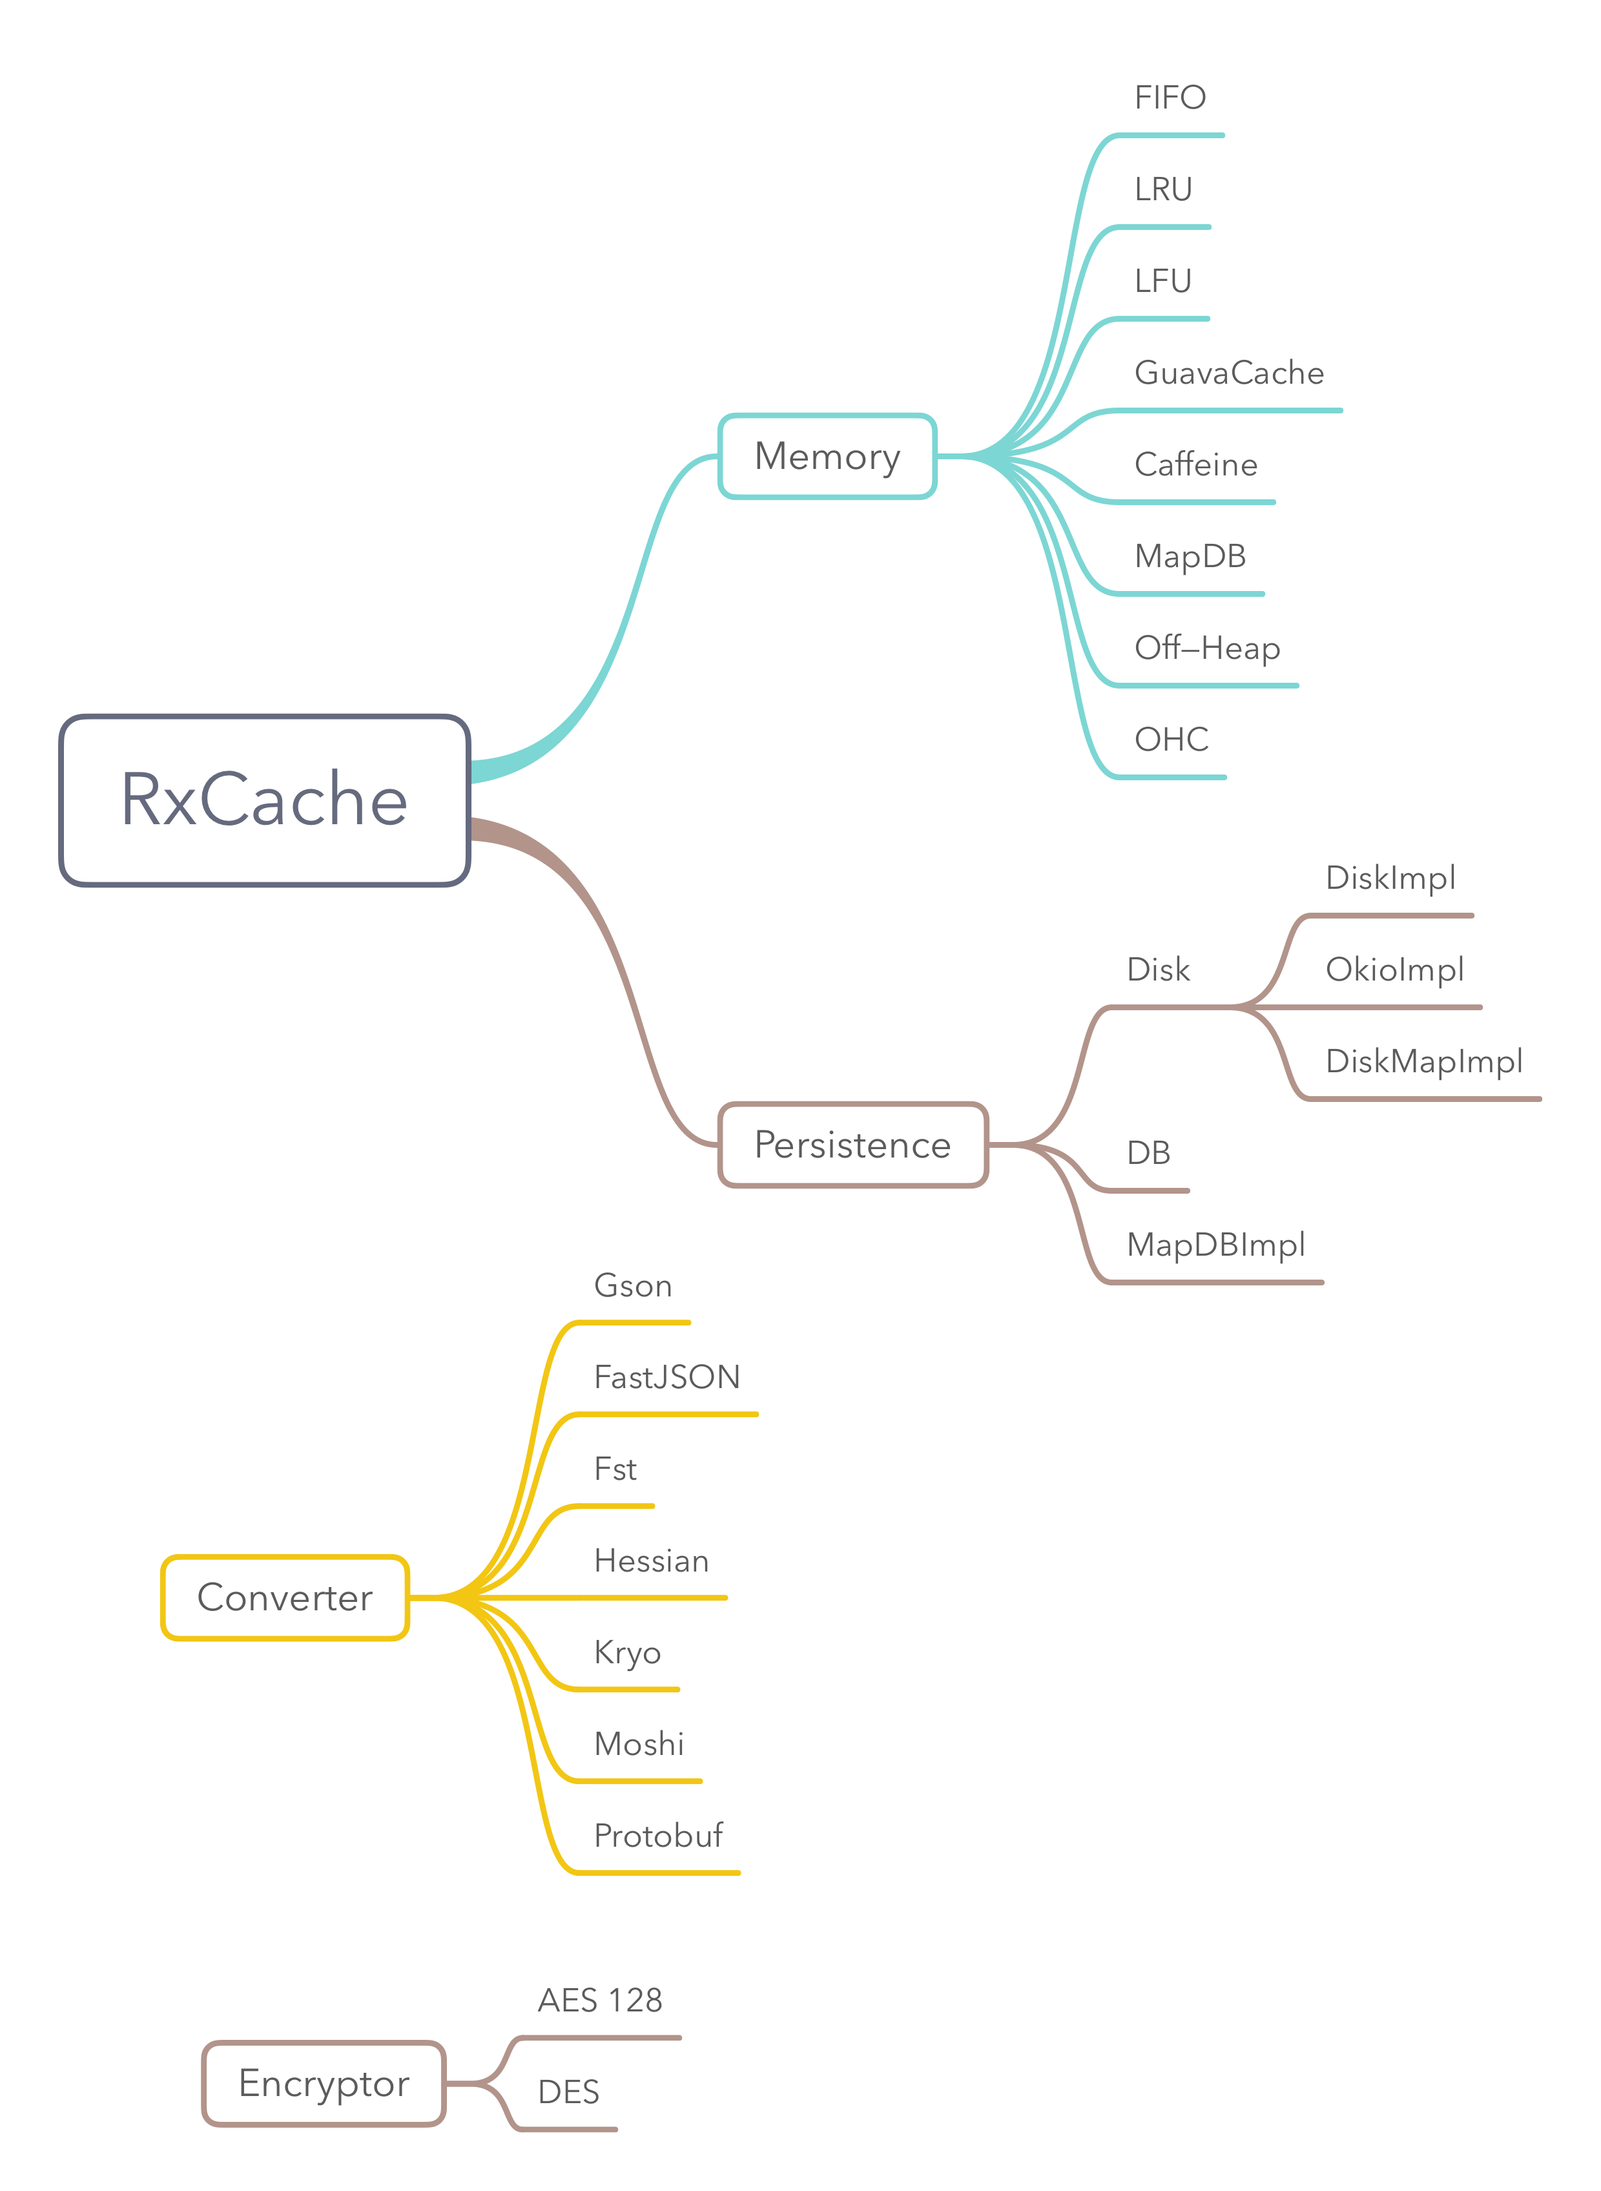
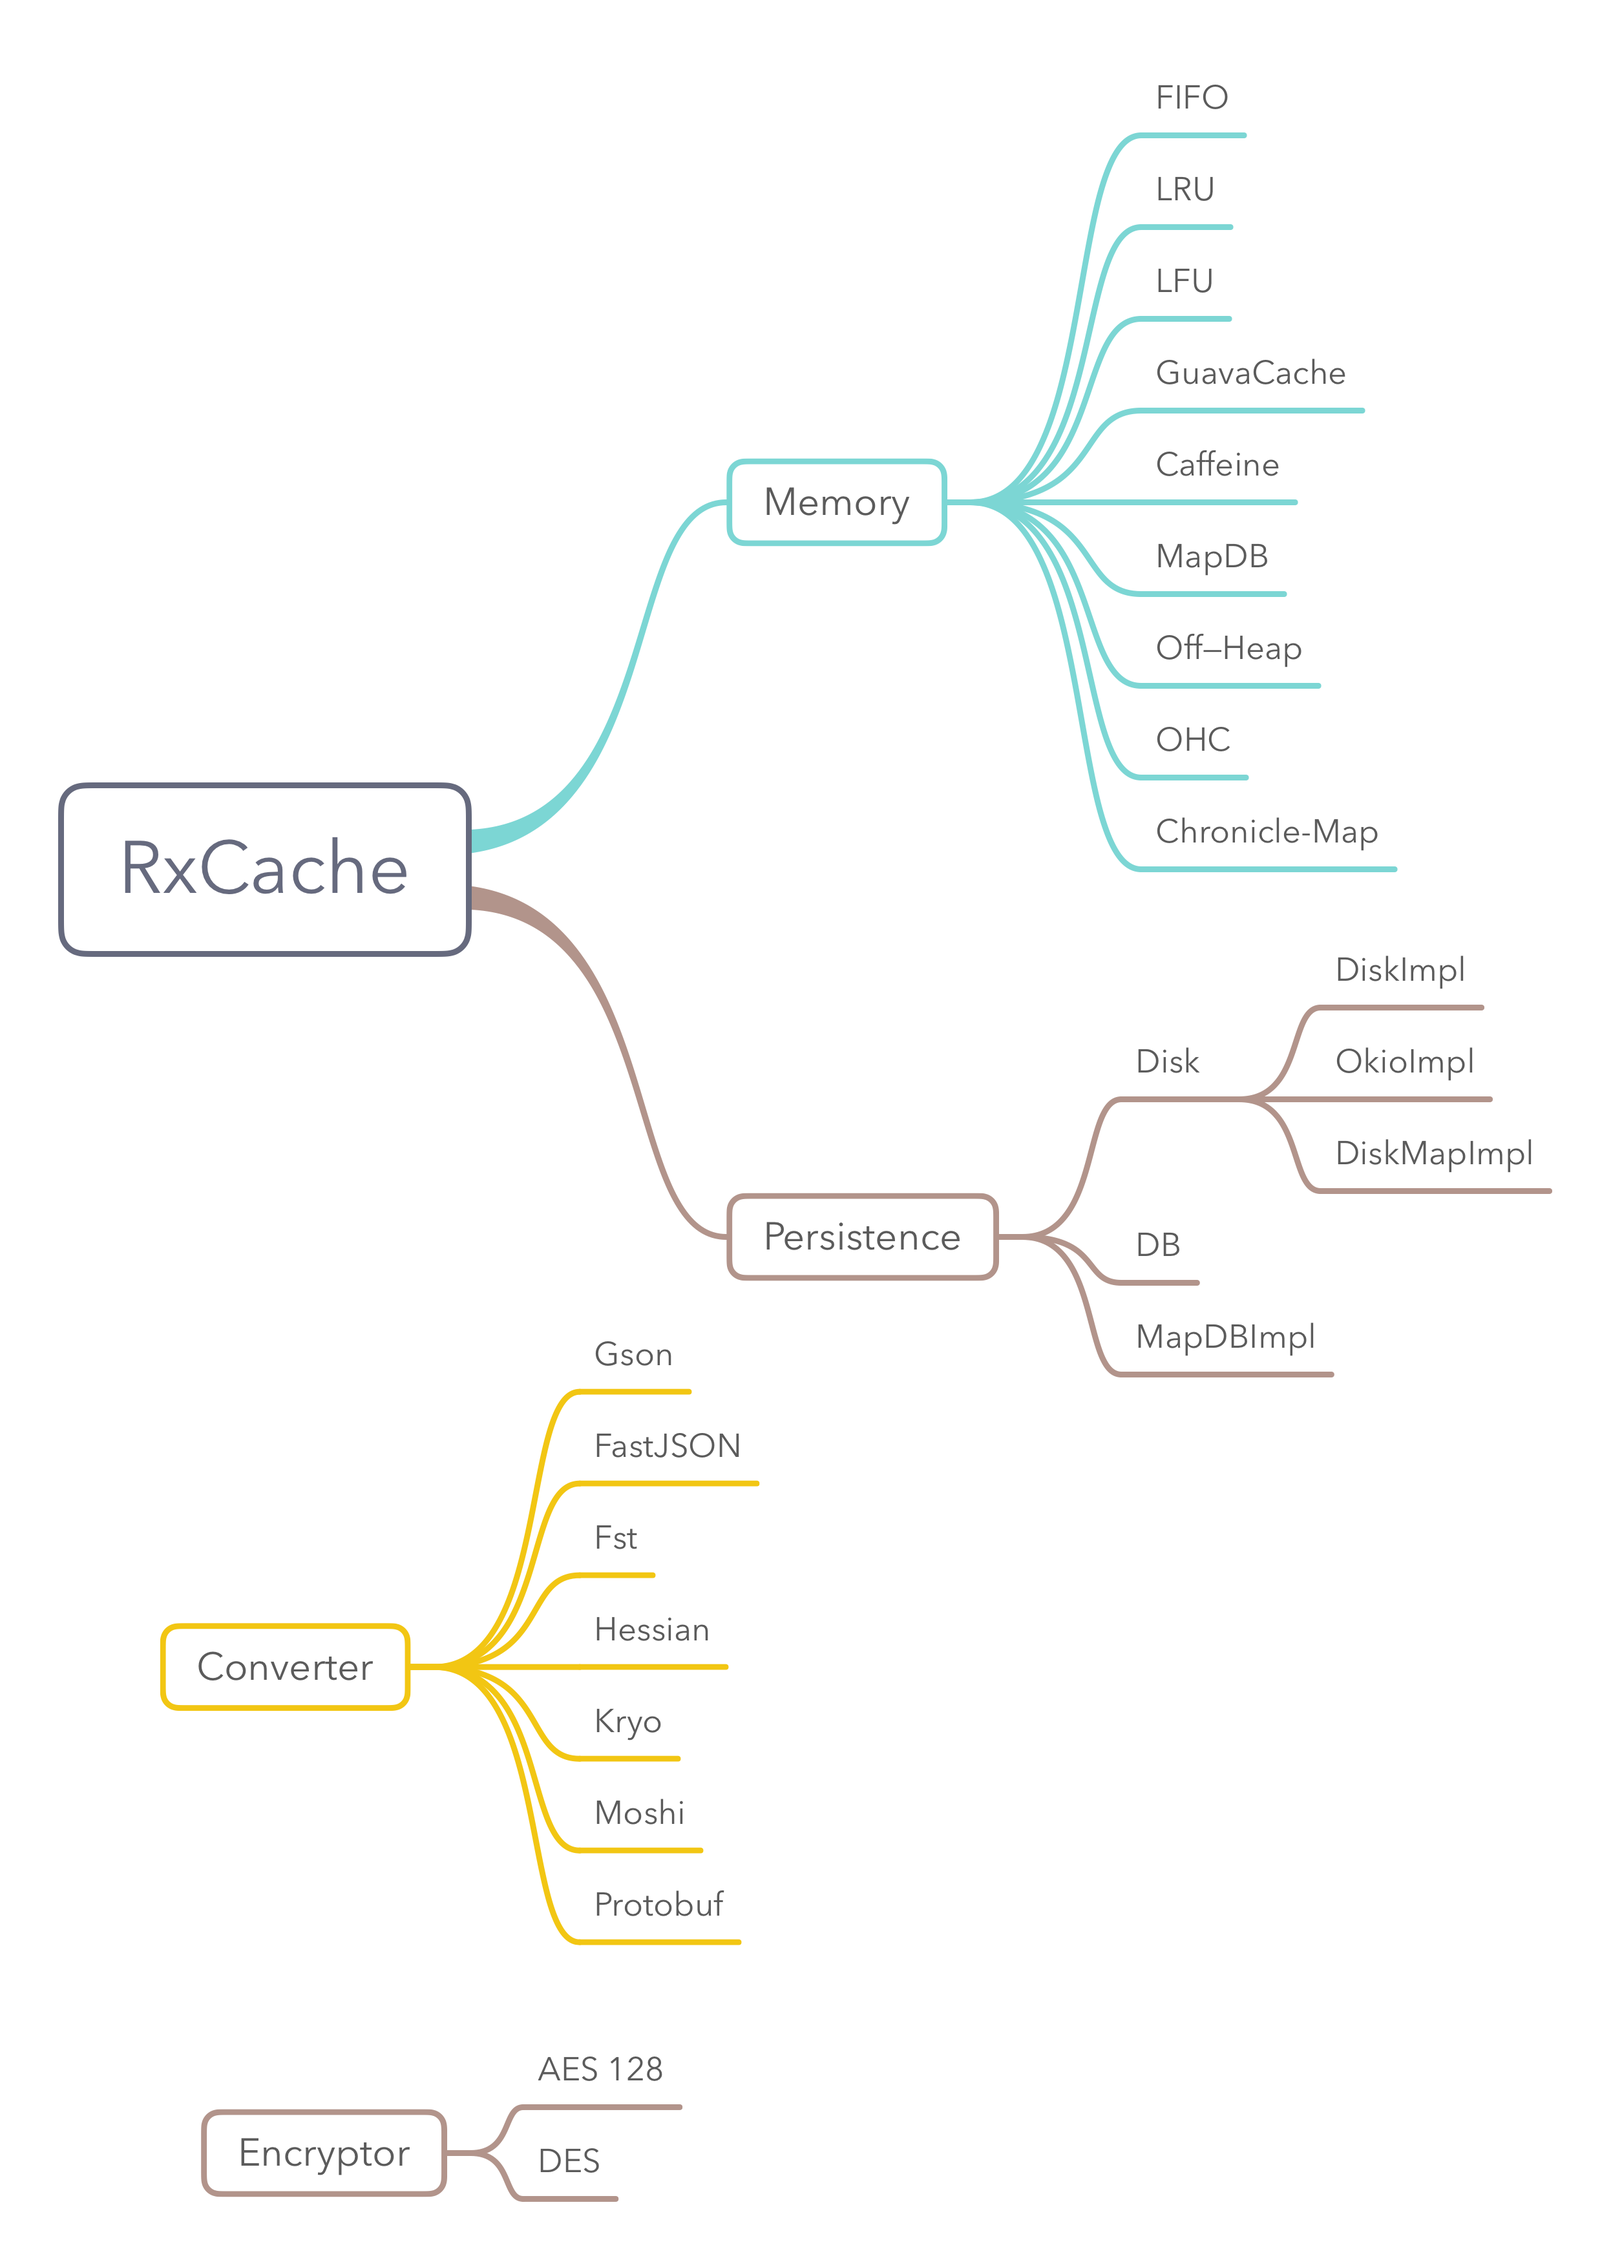
update

diff --git a/README.md b/README.md
@@ -92,7 +92,6 @@ rxcache-persistence-diskmap|[![](https://jitpack.io/v/fengzhizi715/RxCache.svg)]
 
 ## TODO List:
 
-* 支持 Chronicle-Map
 * 增加一个模块，实现二级缓存 （local cache + redis）
 * 重构 diskmap 
 

diff --git a/CHANGELOG.md b/CHANGELOG.md
@@ -1,6 +1,12 @@
 RxCache
 ===
 
+Version 2.1.4
+---
+2021-11-3
+* 优化 Persistence 接口
+* 增加 Chronicle-Map 模块
+
 Version 2.1.3
 ---
 2021-10-24
